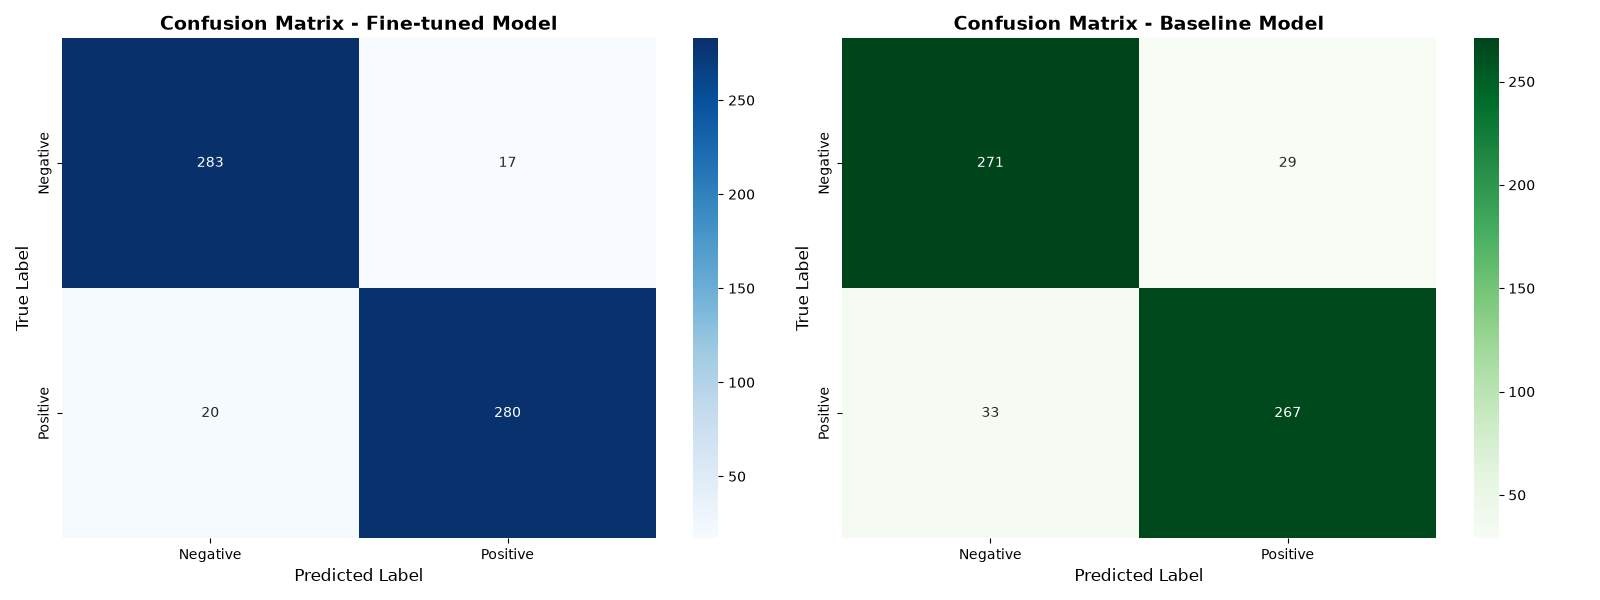
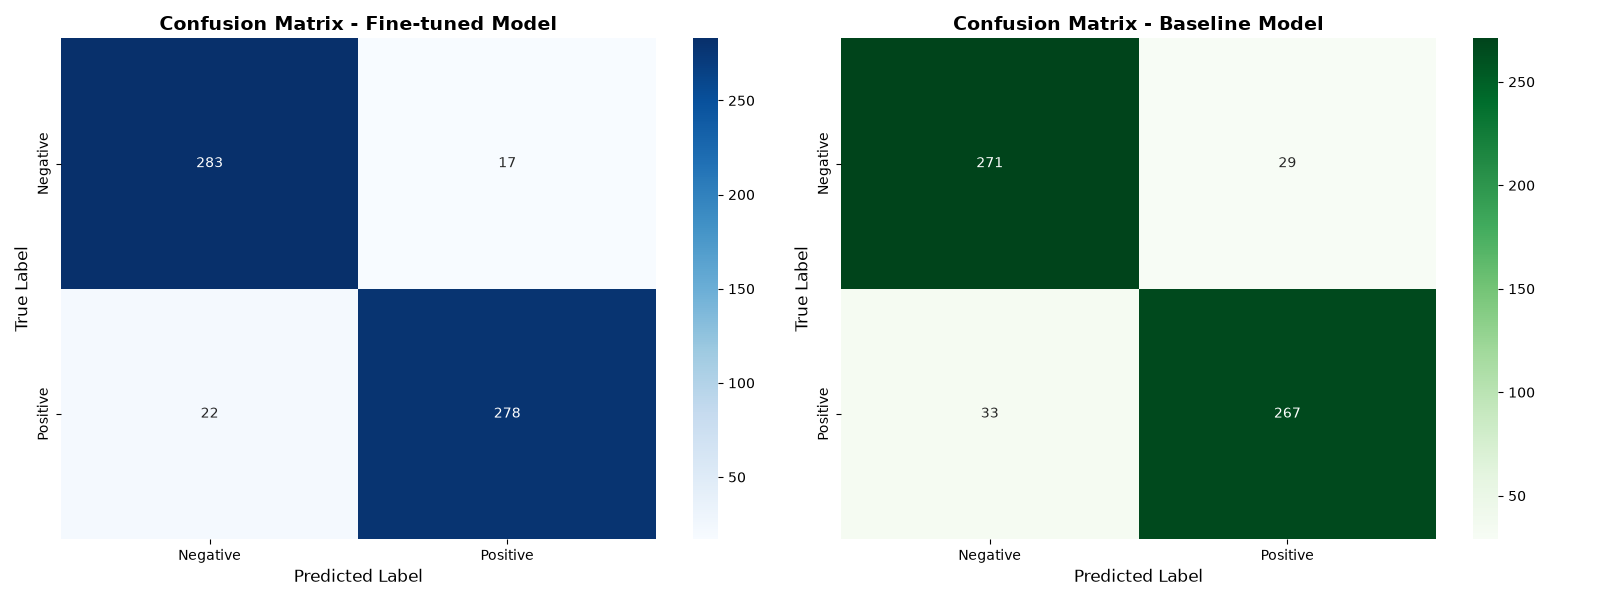
Updated results

diff --git a/day7/error_analysis.py b/day7/error_analysis.py
@@ -55,7 +55,8 @@ if len(fp) > 0:
     print("=== Примеры False Positives (предсказано POSITIVE, было NEGATIVE) ===")
     print("=" * 80)
     for idx, row in fp.head(5).iterrows():
-        text_preview = row["text"][:100] + "..." if len(row["text"]) > 100 else row["text"]
+        text = row["text"].strip()
+        text_preview = text[:100] + "..." if len(text) > 100 else text
         print(f"\nТекст: {text_preview}")
         print(f"Истинный класс: {row['true_label']}, Предсказан: {row['pred_label']}")
 
@@ -65,7 +66,8 @@ if len(fn) > 0:
     print("=== Примеры False Negatives (предсказано NEGATIVE, было POSITIVE) ===")
     print("=" * 80)
     for idx, row in fn.head(5).iterrows():
-        text_preview = row["text"][:100] + "..." if len(row["text"]) > 100 else row["text"]
+        text = row["text"].strip()
+        text_preview = text[:100] + "..." if len(text) > 100 else text
         print(f"\nТекст: {text_preview}")
         print(f"Истинный класс: {row['true_label']}, Предсказан: {row['pred_label']}")
 
@@ -104,12 +106,12 @@ with open(results_path, "w", encoding="utf-8") as f:
 
     f.write("=== ПРИМЕРЫ FALSE POSITIVES ===\n")
     for idx, row in fp.head(5).iterrows():
-        f.write(f"\nТекст: {row['text']}\n")
+        f.write(f"\nТекст: {row['text'].strip()}\n")
         f.write(f"Истинный: {row['true_label']}, Предсказан: {row['pred_label']}\n")
 
     f.write("\n\n=== ПРИМЕРЫ FALSE NEGATIVES ===\n")
     for idx, row in fn.head(5).iterrows():
-        f.write(f"\nТекст: {row['text']}\n")
+        f.write(f"\nТекст: {row['text'].strip()}\n")
         f.write(f"Истинный: {row['true_label']}, Предсказан: {row['pred_label']}\n")
 
     f.write("\n\n=== НАБЛЮДЕНИЯ ===\n")

diff --git a/README.md b/README.md
@@ -117,19 +117,19 @@ day7/              # День 7: Анализ ошибок
 ## Результаты
 
 ### Fine-tuned модель (DistilBERT, 3 эпохи):
-- F1 (macro): 0.9367
-- Accuracy: 0.9367
+- F1 (macro): 0.9350
+- Accuracy: 0.9350
 
 ### Baseline модель (логистическая регрессия на CLS-эмбеддингах):
 - F1 (macro): 0.8967
 - Accuracy: 0.8967
 
-Улучшение F1: **4.46%**
+Улучшение F1: **4.28%**
 
 ### Анализ ошибок
-- Всего примеров: 600, ошибок: 38 (точность 93.67%)
-- False Positives: 20 — модель ошибочно считает негативные отзывы позитивными
-- False Negatives: 18 — модель пропускает позитивные отзывы (неявный позитив, идиомы)
+- Всего примеров: 600, ошибок: 39 (точность 93.50%)
+- False Positives: 17 — модель ошибочно считает негативные отзывы позитивными
+- False Negatives: 22 — модель пропускает позитивные отзывы (неявный позитив, идиомы)
 
 ## Использование в коде
 
